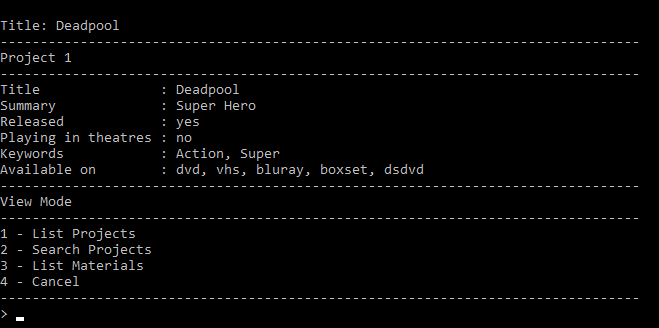
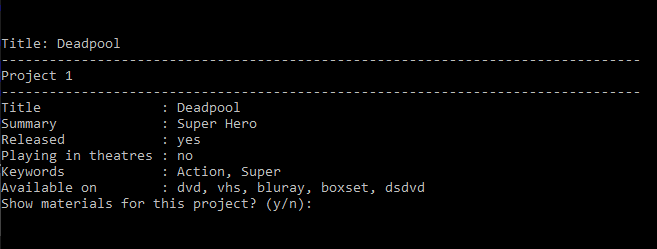
Updated user guide for new change related to listing materials. Also added more information to contributions page

diff --git a/documentation/trekstar-documentation.md b/documentation/trekstar-documentation.md
@@ -81,25 +81,29 @@ titlepage-rule-height: 1
   - Complete [Using Update Project Materials](#using-update-project-materials) once the material id bug has been fixed.
   - Resolve image issue on [Edit Packaging](#edit-packaging) once bugs have been fixed
   - Look into new line for  # # # # headers
+  - Change user guide to include information about the new way to display materials.
 
 \newpage
 
 # Contributions
 
 ## Callum Axon (N0727303) - Member A
+* Implementation of the internal data structure for the application
 * Class Diagram
 * A description of how cohesion and coupling have been considered in the class design
 * An explanation of the internal data structures used and the reason for the choices.
   
 ## Callum Carney (N0741707) - Member C
+* Implementation of the data structure for the application
 * Component Diagrams
 * Deployment Diagrams
-* Screenshots of User Interface
+* An explanation of the search or sorting algorithm used
 
 ## Matthew Robinson (N0724629) - Member B
+* Implementation of the Console Interface for the application
 * Sequence diagram
 * State machine diagram
-* An explanation of the search or sorting algorithm used
+* Screenshots of the User Interface
 
 All other contributions have been completed as part of a group effort.
 
@@ -278,9 +282,8 @@ Once on this screen, you can use the following keyboard inputs to navigate aroun
 | Input Value | Command Action                                                                     | Information Link                               |
 | :----------: | ------------------------------------------------------------------------- | ---------------------------------------------- |
 | 1     | Inputting this value will cause the application to list projects                   | [Listing Projects](#using-list-projects)       |
-| 2     | Inputting this value will cause the application to enter search mode for materials | [Using Search Projects](#using-search-projects) |
-| 3     | Inputting this value will cause the application to list materials                  | [Listing Materials](#using-list-materials) |
-| 4     | Inputting this value will cause the application to navigate back to the main menu | [Main Menu](#using-the-main-menu)         |
+| 2     | Inputting this value will cause the application to enter search mode for projects | [Using Search Projects](#using-search-projects) |
+| 3     | Inputting this value will cause the application to navigate back to the main menu | [Main Menu](#using-the-main-menu)         |
 
 \newpage
 
@@ -314,7 +317,17 @@ You will now see the associated projects that matched to your search query, you 
 
 ![Visual representation of a project being discovered from a search query](images/user-guide/view-mode/project-search-term.png)
 
-As you can see in Figure 8, there are more options available to you, these are the options associated with [View Mode](#using-view-mode), therefore you can find more information by reading the [View Mode](#using-view-mode) section of this user guide.
+As you can see in Figure 8, there is the option to display the associated materials for this project, you can enter _`y`_ to confirm that you wish to view the materials for the associated project, which will bring up the following information:
+
+![Visual representation of a projects materials being displayed](images/user-guide/view-mode/project-search-materials-accept.png)
+
+As you can see in CHANGEFIGUREVALUE, there are more options available to you, these are the options associated with [View Mode](#using-view-mode), therefore you can find more information by reading the [View Mode](#using-view-mode) section of this user guide.
+
+You can also enter _`n`_ to confirm that you do not want to view the materials for the associated project, which will bring up the following information:
+
+![Visual representation of a projects materials not being displayed](images/user-guide/view-mode/project-search-materials-decline.png)
+
+As you can see in CHANGEFIGUREVALUE, there are more options available to you, these are the options associated with [View Mode](#using-view-mode), therefore you can find more information by reading the [View Mode](#using-view-mode) section of this user guide.
 
 \newpage
 
